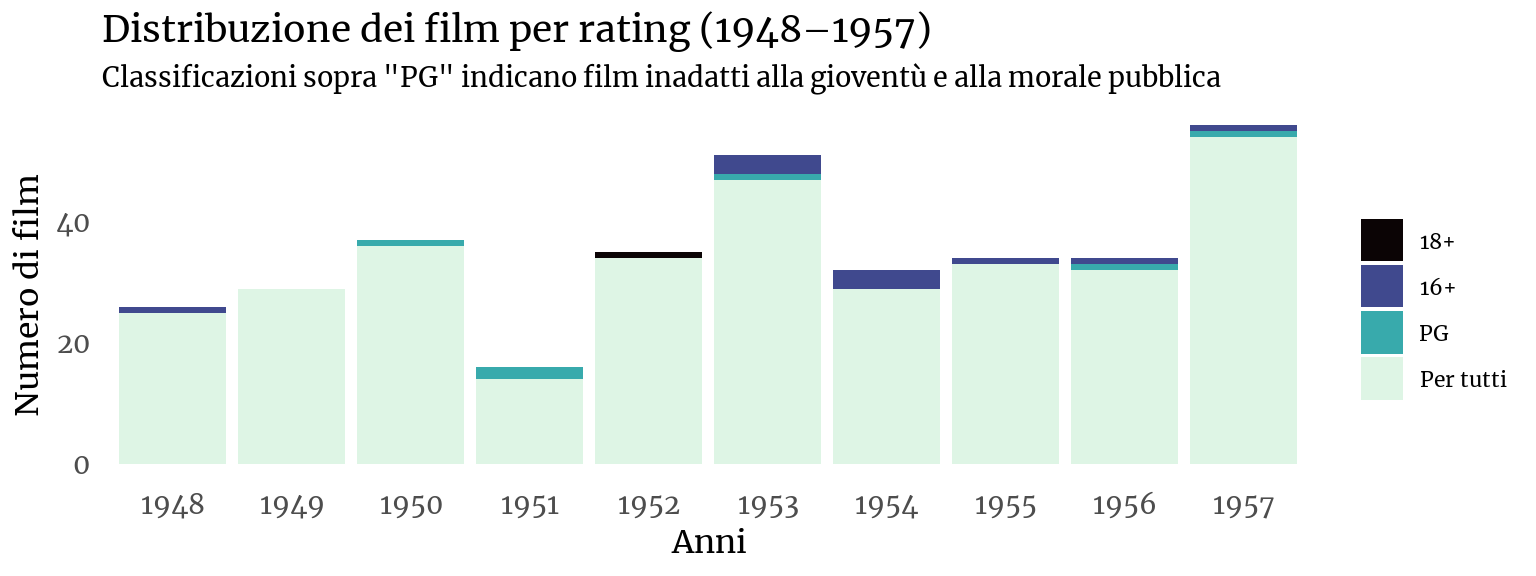
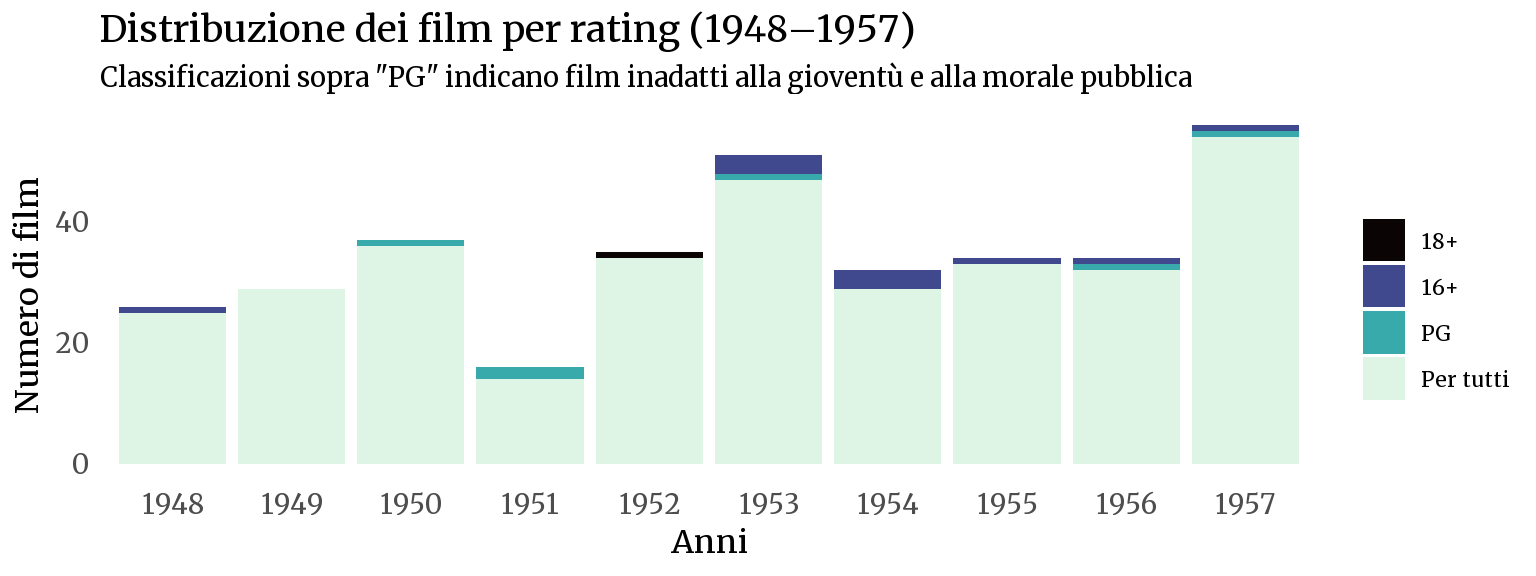
update description of sources in historical programming section for clarity

diff --git a/content/programmazione-storica/fonti/_index.md b/content/programmazione-storica/fonti/_index.md
@@ -19,7 +19,7 @@ Le principali tipologie di fonti sono:
 2. 📰 **[Calendari](/categories/calendari/)** murali o da tavolo utilizzati per annotare la programmazione del cinema. Indicano le date di proiezione, i titoli e, in molti casi, gli incassi.
 3. 📅  **[Rubriche](/categories/rubriche/)** in cui venivano elencati in ordine alfabetico i film proiettati, con l’indicazione della data, incasso e in alcuni casi del distributore.
 4. ✍  **[Appunti](/categories/appunti/)**, blocchi o fogli sciolti su cui erano annotati i film mese per mese, talvolta accompagnati dai relativi incassi.
-5. 🎞 Manifesti e locandine sono stati consultati come riscontro per le date, ma non catalogati in modo sistematico.
+5. 🎞 **[Note sui manifesti](/categories/note-sui-manifesti/)**, date di proiezione annotate sul retro dei manifesti cinematografici; i film sono elencati per anno e mese.
 
 <img src="/programmazione-storica/fonti/_index_files/figure-html/unnamed-chunk-1-1.png" alt="" width="768" />
 
